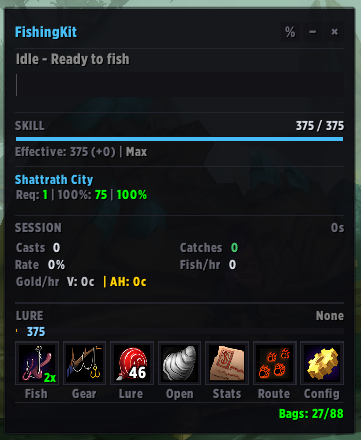
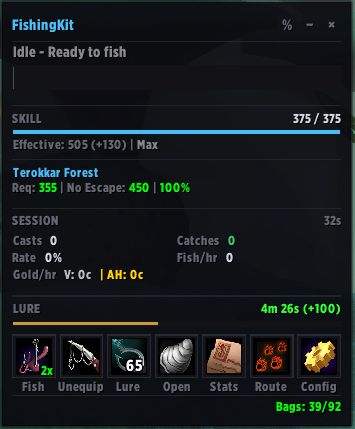
chore: release v1.3.9
Bug fixes:
- Removed duplicate "skill" / "lure timer" labels above Fish and Lure
  action buttons that were overlapping the LURE progress bar. Same
  data is still shown in the SKILL and LURE rows higher in the panel.
- Relabeled the zone line "100%: 450" -> "No Escape: 450" so the
  threshold is clearly distinguished from the session Rate stat.

diff --git a/CLAUDE.md b/CLAUDE.md
@@ -132,6 +132,8 @@ Key files to reference:
 | (v1.3.8) | Auto-lure reapply printed "blocked by an action only available to the Blizzard UI" — `UseContainerItem` + `UseInventoryItem(16)` applied from a `C_Timer` callback is a protected path (enchant-cursor apply needs a hardware event) | Removed direct protected calls. `TryAutoReapplyLure` arms a dedicated `FishingKitLureSAButton` (SecureActionButton) with `/use bag slot\n/use 16` macro + `SetOverrideBindingClick(BUTTON2)`. Player's next right-click fires the secure click; `PostClick`, a 60 s timer, and `PLAYER_REGEN_DISABLED` all disarm |
 | (v1.3.8) | Auto-lure reapplied when the current lure still had a few seconds remaining (threshold was `< 5 s`) | Expired-only check: act only when `not GetWeaponEnchantInfo()` |
 | (v1.3.8) | Enhanced audio boost caused music to click/fade in and out — boost muted `Sound_MusicVolume` but left `Sound_EnableMusic` on, so the music engine kept cycling | Added `Sound_EnableMusic` to `soundCVarList` so the music subsystem is disabled during boost and restored afterwards |
+| (v1.3.9) | Lure progress bar overlapped the duplicate "skill" / "lure timer" labels positioned above the Fish and Lure action buttons | Removed `frame.fishSkillText` and `frame.lureTimer` (and their `UpdatePanel` writers) — the same data is already shown in the SKILL row (`375 / 375`) and LURE row (`9m 54s (+100)`); bar color logic preserved |
+| (v1.3.9) | Zone line label `100%: 450` was misleading — users read it as "100% catch rate at 450 skill" and compared it to the session `Rate` stat (catches/casts, includes timeouts/missed clicks) | Relabeled to `No Escape: 450` to make it clear the threshold is the skill above which bitten fish stop escaping, not an overall catch rate |
 
 ## Important API Behaviour (TBC Classic 2.5.5)
 

diff --git a/CHANGELOG.md b/CHANGELOG.md
@@ -1,5 +1,18 @@
 # Extreme FishingKit - TBC Anniversary Edition - Changelog
 
+## v1.3.9
+
+### Bug Fixes
+
+- **Lure progress bar overlapped the labels above the action buttons** — the LURE row's progress bar lives directly above the action button row, and two duplicate labels (`fishSkillText` "375" above the Fish button, `lureTimer` "9:54" above the Lure button) were anchored 2 px above their buttons, landing right on top of the bar. Removed both labels — the same data is already shown in the SKILL row (`375 / 375`) and LURE row (`9m 54s (+100)`) higher up in the panel. Bar color (green / orange / red as the lure expires) is preserved.
+- **Zone catch-rate label was misleading** — the line displayed `Req: 355 | 100%: 450 | 100%`, where the middle "100%" meant "skill above which no bitten fish escapes". Users were reading it as "100% catch rate at 450 skill" and comparing it to the session `Rate` stat — but `Rate` is `catches / casts` and includes bobber timeouts, missed clicks, dazes, and other non-skill losses, so the two numbers measure different things. Relabeled to `No Escape: 450` so the threshold's meaning is unambiguous.
+
+### Files Modified
+
+- `modules/UI.lua` (removed `frame.fishSkillText` and `frame.lureTimer` and their `UpdatePanel` writers; kept lure-bar color updates; relabeled `100%:` to `No Escape:` in the zone line)
+
+---
+
 ## v1.3.8
 
 ### Bug Fixes

diff --git a/README.md b/README.md
@@ -57,4 +57,4 @@ Fork of the original [FishingKit](https://www.curseforge.com/wow/addons/fishingk
 
 - **Game version**: TBC Classic Anniversary (2.5.5)
 - **Interface version**: 20505
-- **Addon version**: 1.3.8
+- **Addon version**: 1.3.9
